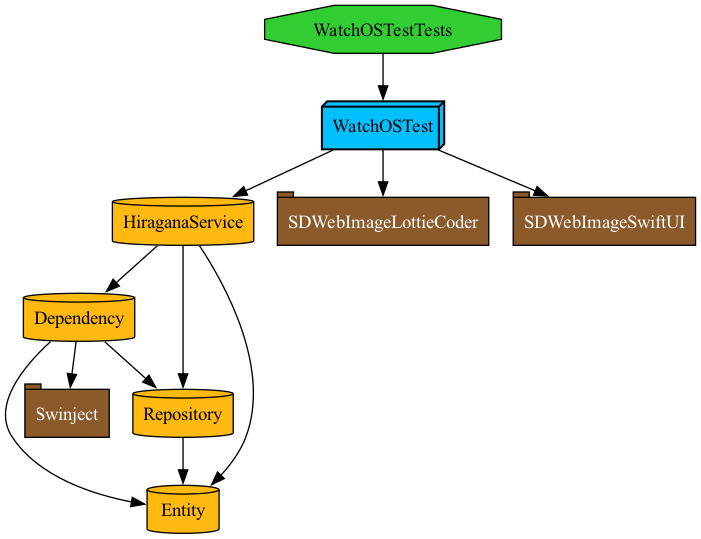
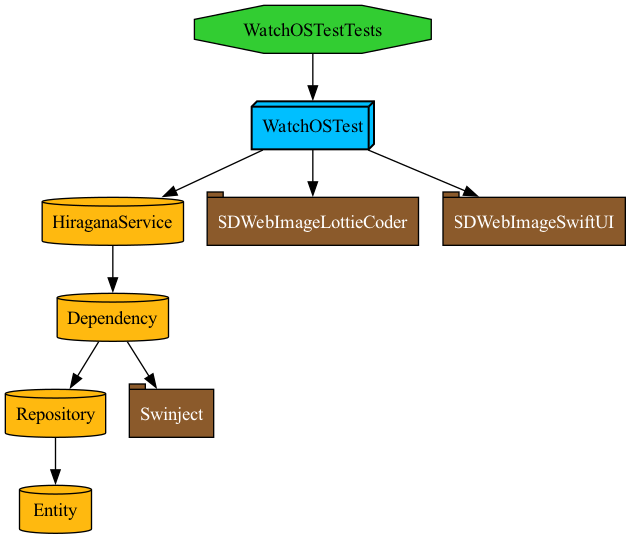
의존성 정리

diff --git a/Project.swift b/Project.swift
@@ -23,9 +23,6 @@ let project = Project(
             dependencies: [
                 .package(product: "SDWebImageLottieCoder", type: .runtime, condition: .none),
                 .package(product: "SDWebImageSwiftUI", type: .runtime, condition: .none),
-//                .project(target: "Entity", path: .relativeToRoot("Modules/Entity"), condition: .none),
-//                .project(target: "Repository", path: .relativeToRoot("Modules/Repository"), condition: .none),
-//                .project(target: "Dependency", path: .relativeToRoot("Modules/Dependency"), condition: .none),
                 .project(target: "HiraganaService", path: .relativeToRoot("Modules/HiraganaService"), condition: .none),
             ]
         ),

diff --git a/Modules/HiraganaService/Project.swift b/Modules/HiraganaService/Project.swift
@@ -11,8 +11,6 @@ let project: Project = .init(
             sources: ["Sources/**"],
             resources: ["Resources/**"],
             dependencies: [
-                .project(target: "Entity", path: .relativeToRoot("Modules/Entity"), condition: .none),
-                .project(target: "Repository", path: .relativeToRoot("Modules/Repository"), condition: .none),
                 .project(target: "Dependency", path: .relativeToRoot("Modules/Dependency"), condition: .none),
             ]
         )

diff --git a/Modules/Dependency/Project.swift b/Modules/Dependency/Project.swift
@@ -15,7 +15,6 @@ let project: Project = .init(
             resources: ["Resources/**"],
             dependencies: [
                 .package(product: "Swinject", type: .runtime, condition: .none),
-                .project(target: "Entity", path: .relativeToRoot("Modules/Entity"), condition: .none),
                 .project(target: "Repository", path: .relativeToRoot("Modules/Repository"), condition: .none),
             ]
         )

diff --git a/Modules/HiraganaService/Sources/HiraganaStudy/HiraganaStudyViewModel.swift b/Modules/HiraganaService/Sources/HiraganaStudy/HiraganaStudyViewModel.swift
@@ -8,10 +8,10 @@
 import Foundation
 import Entity
 
-class HiraganaStudyViewModel: ObservableObject {
+public class HiraganaStudyViewModel: ObservableObject {
     var dependency: HiraganaStudyDependencyProtocol?
 
-    @Published var hiraganaModels: [HiraganaModel] = []
+    @Published public var hiraganaModels: [HiraganaModel] = []
     @Published var index: Int = 0
 
     init(
